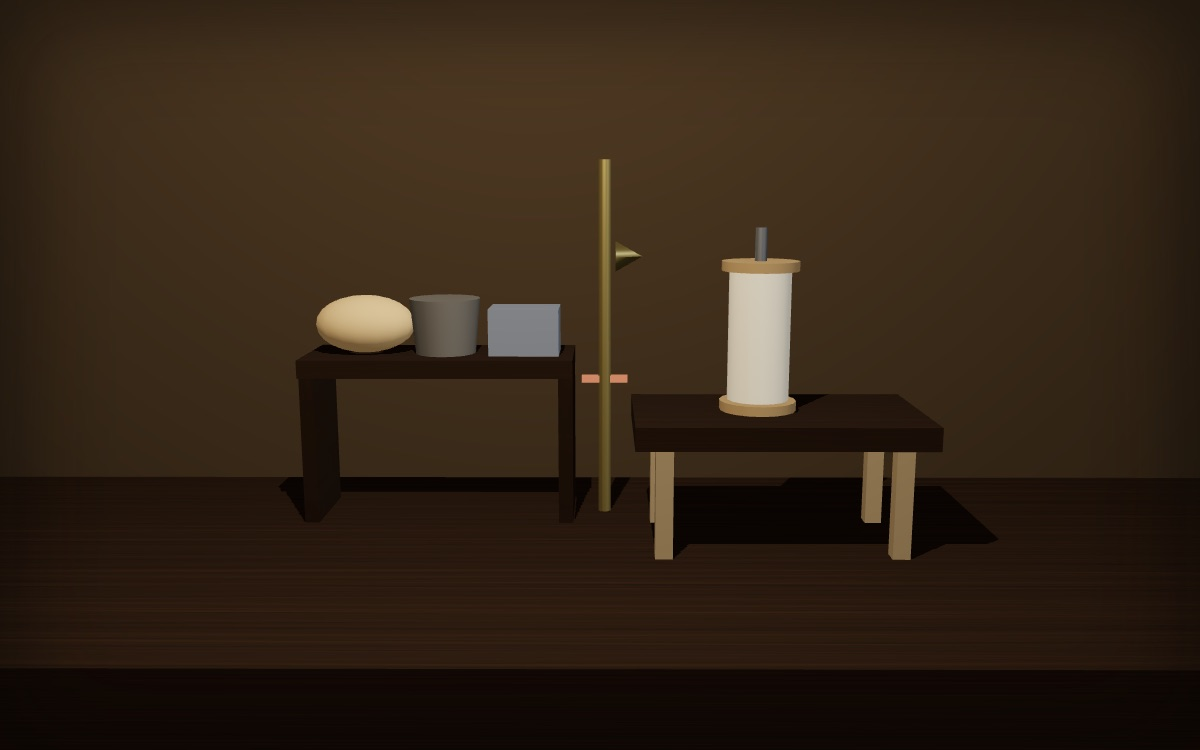
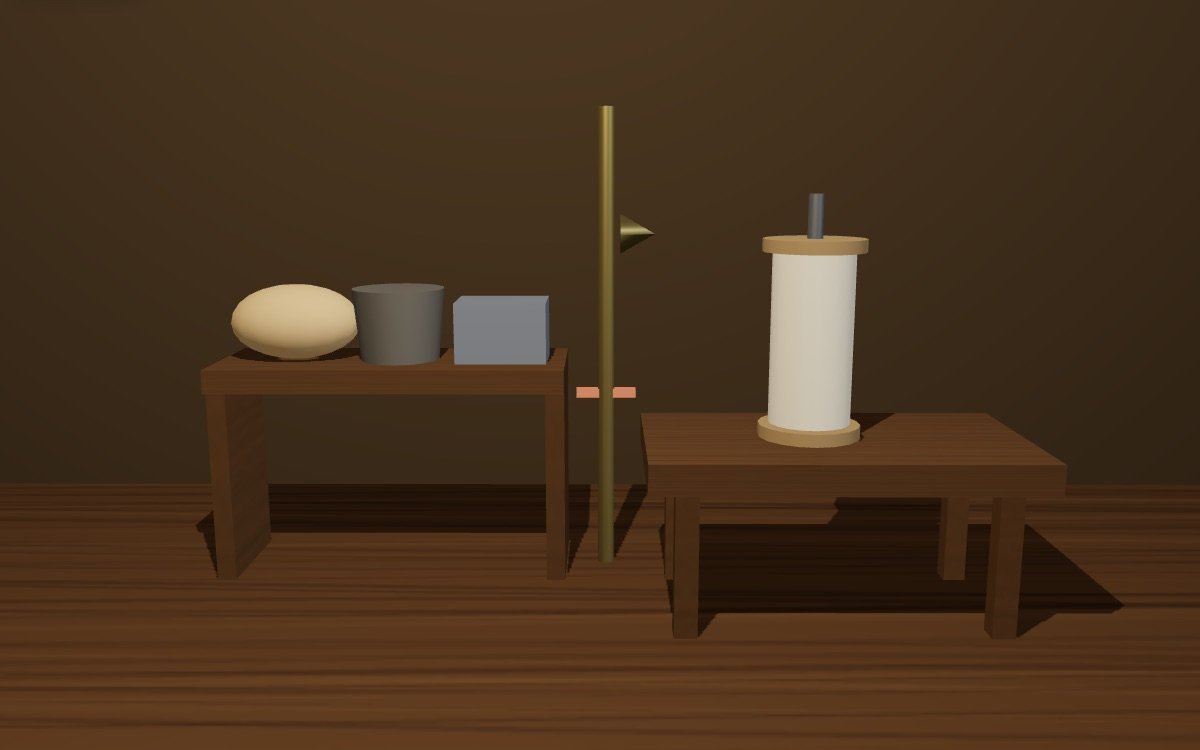
Glossaire : scène de travail-necessaire éclaircie et recadrée

diff --git a/glossaire/mondes/travail-necessaire/monde.js b/glossaire/mondes/travail-necessaire/monde.js
@@ -40,18 +40,20 @@ window.LM_MONDE = function (canvas) {
   function V3(x, y, z) { return new THREE.Vector3(x, y, z); }
 
   var boisTex = tex(512, 512, function (g, w, h) {
-    g.fillStyle = '#463526'; g.fillRect(0, 0, w, h);
+    g.fillStyle = '#6e543b'; g.fillRect(0, 0, w, h);
     for (var i = 0; i < 180; i++) {
-      g.strokeStyle = 'rgba(' + (rnd() < 0.5 ? '26,18,10' : '112,90,62') + ',' + (0.05 + rnd() * 0.16) + ')';
+      g.strokeStyle = 'rgba(' + (rnd() < 0.5 ? '40,28,16' : '150,122,86') + ',' + (0.05 + rnd() * 0.16) + ')';
       g.lineWidth = 0.6 + rnd() * 2.4; g.beginPath();
       var y = rnd() * h; g.moveTo(0, y);
       for (var x = 0; x <= w; x += 30) g.lineTo(x, y + Math.sin(x * 0.013 + i) * 4);
       g.stroke();
     }
   });
-  var sol = new THREE.Mesh(new THREE.BoxGeometry(1.9, 0.10, 0.56),
-    std({ map: boisTex, color: 0x9c8768, roughness: 0.88 }));
-  sol.position.set(0, -0.05, -0.02); sol.receiveShadow = true; scene.add(sol);
+  /* le plancher court jusque sous la caméra : posé court, son bord avant
+     tombait dans le cadre et laissait un cinquième d'image noir. */
+  var sol = new THREE.Mesh(new THREE.BoxGeometry(2.4, 0.10, 1.70),
+    std({ map: boisTex, color: 0xd2bf9e, roughness: 0.86 }));
+  sol.position.set(0, -0.05, 0.45); sol.receiveShadow = true; scene.add(sol);
   var mur = new THREE.Mesh(new THREE.PlaneGeometry(4.6, 2.2), std({ color: 0x171009, roughness: 1 }));
   mur.position.set(0, 0.6, -0.40); scene.add(mur);
 
@@ -69,11 +71,11 @@ window.LM_MONDE = function (canvas) {
   var XE = -0.19;
   var etagere = new THREE.Group(); etagere.position.set(XE, 0, -0.16); scene.add(etagere);
   var planche = new THREE.Mesh(new THREE.BoxGeometry(0.30, 0.020, 0.115),
-    std({ map: boisTex, color: 0x8a7454, roughness: 0.9 }));
+    std({ map: boisTex, color: 0xe6d4b2, roughness: 0.9 }));
   planche.position.y = 0.175; planche.castShadow = true; planche.receiveShadow = true; etagere.add(planche);
   [-1, 1].forEach(function (s) {
     var m = new THREE.Mesh(new THREE.BoxGeometry(0.016, 0.185, 0.100),
-      std({ map: boisTex, color: 0x7a6444, roughness: 0.92 }));
+      std({ map: boisTex, color: 0xdac6a2, roughness: 0.92 }));
     m.position.set(s * 0.142, 0.083, 0); m.castShadow = true; etagere.add(m);
   });
   var vivres = [];
@@ -94,11 +96,11 @@ window.LM_MONDE = function (canvas) {
   var XB = 0.175;
   var etabli = new THREE.Group(); etabli.position.set(XB, 0, -0.06); scene.add(etabli);
   var plateau = new THREE.Mesh(new THREE.BoxGeometry(0.30, 0.024, 0.170),
-    std({ map: boisTex, color: 0x8a7454, roughness: 0.9 }));
+    std({ map: boisTex, color: 0xe6d4b2, roughness: 0.9 }));
   plateau.position.y = 0.128; plateau.castShadow = true; plateau.receiveShadow = true; etabli.add(plateau);
   [[-0.12, -0.06], [0.12, -0.06], [-0.12, 0.06], [0.12, 0.06]].forEach(function (p) {
     var m = new THREE.Mesh(new THREE.BoxGeometry(0.018, 0.128, 0.018),
-      std({ color: 0x5a4429, roughness: 0.92 }));
+      std({ map: boisTex, color: 0xdac6a2, roughness: 0.92 }));
     m.position.set(p[0], 0.064, p[1]); m.castShadow = true; etabli.add(m);
   });
   var broche = new THREE.Mesh(new THREE.CylinderGeometry(0.006, 0.007, 0.19, 10),
@@ -180,9 +182,9 @@ window.LM_MONDE = function (canvas) {
     /* ── LE CADRAGE ───────────────────────────────────────────────────
        L'étagère de −0,37 à −0,06, l'établi de 0,04 à 0,35 : VÉRIFIÉ PAR
        PROJECTION à la position portrait, la plus étroite. */
-    var dz = lerp(1.22, 1.14, ss(0, 1, Math.min(1, G / 2.5)));
-    var camA = V3(-0.01, lerp(0.15, 0.18, ss(1.5, 4.5, G)), -0.08);
-    camera.position.set(camA.x + 0.008 * Math.sin(T * 0.21), camA.y + 0.20 + 0.006 * Math.sin(T * 0.27), camA.z + dz);
+    var dz = lerp(0.92, 0.86, ss(0, 1, Math.min(1, G / 2.5)));
+    var camA = V3(-0.01, lerp(0.17, 0.19, ss(1.5, 4.5, G)), -0.08);
+    camera.position.set(camA.x + 0.008 * Math.sin(T * 0.21), camA.y + 0.16 + 0.006 * Math.sin(T * 0.27), camA.z + dz);
     camera.lookAt(camA);
     render();
   }
